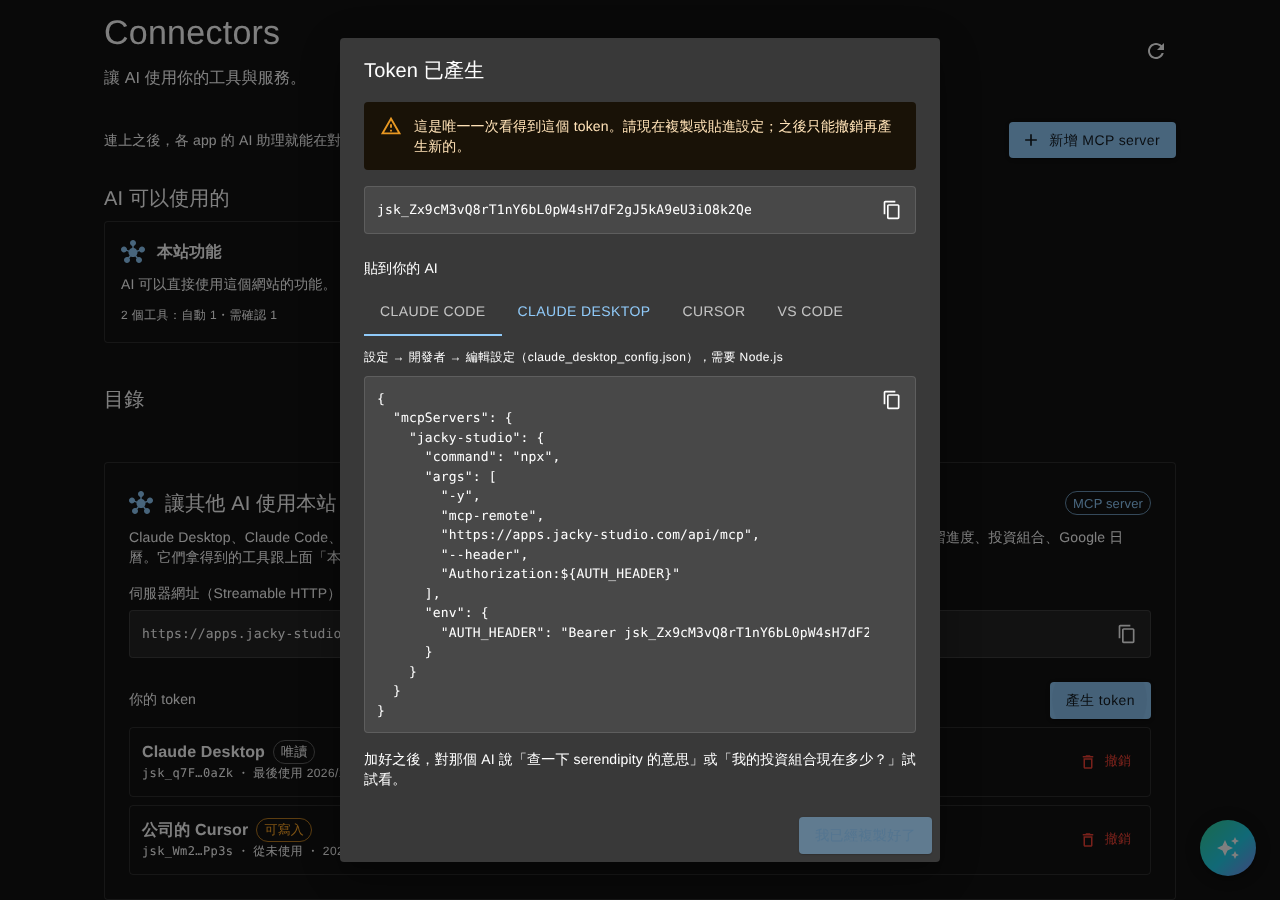
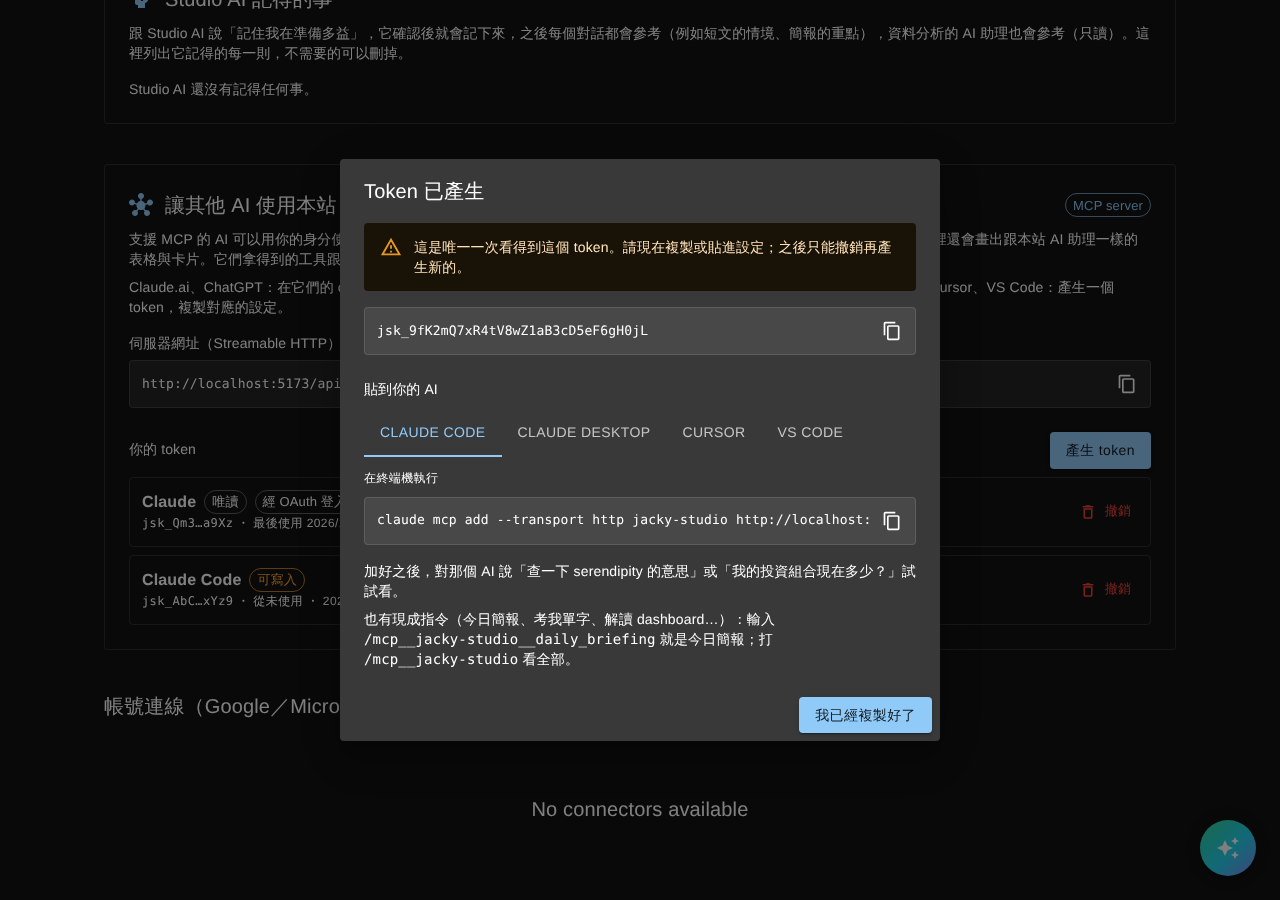
feat(connectors): 產生 token 的對話框寫出各 AI 怎麼叫出本站的現成指令；文件與截圖（D-110）
Claude Code 的 /mcp__jacky-studio__daily_briefing、VS Code 的 /mcp.jacky-studio.daily_briefing、Claude Desktop 的「＋」選單；
BRIEFING_PROMPT 由測試對齊 StudioSitePrompts.cs。design/03 §9.3、CONTRIBUTING、兩份 CLAUDE.md、SHOWCASE。

Claude-Session: https://claude.ai/code/session_01AQNm4hfx32a2siK9tmo2e1

diff --git a/jackyaiapp.client/src/Connectors/SiteMcpSection/clientConfigs.ts b/jackyaiapp.client/src/Connectors/SiteMcpSection/clientConfigs.ts
@@ -4,12 +4,23 @@ export const siteMcpUrl = (origin: string) => `${origin.replace(/\/+$/, '')}/api
 /** The name the other AI lists the server under. */
 export const SERVER_KEY = 'jacky-studio';
 
+/**
+ * The morning briefing among the server's ready-made requests (MCP prompts: the server's `SitePrompt`s,
+ * `StudioSitePrompts.DailyBriefing`; its test holds the two together), the one the dialog names.
+ */
+export const BRIEFING_PROMPT = 'daily_briefing';
+
 export interface ClientConfig {
   key: 'claudeCode' | 'claudeDesktop' | 'cursor' | 'vscode';
   label: string;
   /** Where it goes, in words. */
   where: string;
   text: string;
+  /**
+   * Where that AI shows the site's ready-made requests (MCP prompts), in words, naming the briefing.
+   * None for a client whose way to them we do not know.
+   */
+  prompts?: string;
 }
 
 const json = (value: unknown) => JSON.stringify(value, null, 2);
@@ -28,6 +39,7 @@ export function clientConfigs(serverUrl: string, token: string): ClientConfig[] 
       label: 'Claude Code',
       where: '在終端機執行',
       text: `claude mcp add --transport http ${SERVER_KEY} ${serverUrl} --header "Authorization: ${authorization}"`,
+      prompts: `輸入 /mcp__${SERVER_KEY}__${BRIEFING_PROMPT} 就是今日簡報；打 /mcp__${SERVER_KEY} 看全部`,
     },
     {
       key: 'claudeDesktop',
@@ -42,6 +54,7 @@ export function clientConfigs(serverUrl: string, token: string): ClientConfig[] 
           },
         },
       }),
+      prompts: `輸入框的「＋」→ ${SERVER_KEY}，選「今日簡報」或其他現成指令`,
     },
     {
       key: 'cursor',
@@ -60,6 +73,7 @@ export function clientConfigs(serverUrl: string, token: string): ClientConfig[] 
           [SERVER_KEY]: { type: 'http', url: serverUrl, headers: { Authorization: authorization } },
         },
       }),
+      prompts: `在 Copilot Chat 輸入 /mcp.${SERVER_KEY}.${BRIEFING_PROMPT} 就是今日簡報`,
     },
   ];
 }

diff --git a/jackyaiapp.client/src/Connectors/SiteMcpSection/CreateTokenDialog.tsx b/jackyaiapp.client/src/Connectors/SiteMcpSection/CreateTokenDialog.tsx
@@ -98,6 +98,31 @@ export default function CreateTokenDialog({ open, serverUrl, onClose }: CreateTo
           <Typography variant="body2" color="text.secondary" sx={{ mt: 2 }}>
             加好之後，對那個 AI 說「查一下 serendipity 的意思」或「我的投資組合現在多少？」試試看。
           </Typography>
+          {config.prompts && (
+            <Typography variant="body2" color="text.secondary" sx={{ mt: 1 }}>
+              也有現成指令（今日簡報、考我單字、解讀 dashboard…）：
+              {config.prompts.split(/(\/mcp\S+)/).map((part, i) =>
+                i % 2 === 1 ? (
+                  <Box
+                    key={i}
+                    component="code"
+                    sx={{
+                      fontFamily: 'monospace',
+                      color: 'text.primary',
+                      // One line where it fits; a phone breaks it anywhere rather than overflow.
+                      whiteSpace: { sm: 'nowrap' },
+                      overflowWrap: 'anywhere',
+                    }}
+                  >
+                    {part}
+                  </Box>
+                ) : (
+                  part
+                ),
+              )}
+              。
+            </Typography>
+          )}
         </DialogContent>
       ) : (
         <DialogContent>

diff --git a/jackyaiapp.client/src/Connectors/SiteMcpSection/clientConfigs.test.ts b/jackyaiapp.client/src/Connectors/SiteMcpSection/clientConfigs.test.ts
@@ -1,6 +1,8 @@
 import { describe, expect, it } from 'vitest';
 
-import { clientConfigs, siteMcpUrl } from './clientConfigs';
+import studioPromptsCs from '../../../../JackyAIApp.Server/Services/Assistant/Studio/StudioSitePrompts.cs?raw';
+
+import { BRIEFING_PROMPT, clientConfigs, siteMcpUrl } from './clientConfigs';
 
 const url = 'https://apps.jacky-studio.com/api/mcp';
 const token = 'jsk_abc';
@@ -44,5 +46,20 @@ describe('clientConfigs', () => {
         'jacky-studio': { type: 'http', url, headers: { Authorization: 'Bearer jsk_abc' } },
       },
     });
+  });
+});
+
+describe('the ready-made requests (MCP prompts)', () => {
+  const byKey = Object.fromEntries(clientConfigs(url, token).map((c) => [c.key, c]));
+
+  it('names the server’s own briefing prompt', () => {
+    expect(studioPromptsCs).toContain(`"${BRIEFING_PROMPT}"`);
+  });
+
+  it('says each client’s way to them, in its own command shape', () => {
+    expect(byKey.claudeCode.prompts).toContain('/mcp__jacky-studio__daily_briefing');
+    expect(byKey.vscode.prompts).toContain('/mcp.jacky-studio.daily_briefing');
+    expect(byKey.claudeDesktop.prompts).toContain('jacky-studio');
+    expect(byKey.cursor.prompts).toBeUndefined();
   });
 });

diff --git a/docs/ai-native/SHOWCASE.md b/docs/ai-native/SHOWCASE.md
@@ -31,6 +31,7 @@
 | 每個工具「自動／需確認／停用」；確認卡可勾「以後直接執行」；讀過外部資料（含行事曆邀請）後的寫入一律先問；工具說明被改了就改回需確認 | `ToolPermissions`、taint（D-031、`OutsideText`）、工具結果包成不可信資料、`CachedTools.Changed`（rug pull） | prompt injection 與 tool poisoning 防護 |
 | **網站本身就是 MCP server**：在 /connectors 產生 token，一鍵複製 Claude Code／Claude Desktop／Cursor／VS Code 的設定，別家的 AI 就能查字典、看你的學習進度與投資組合 | `POST /api/mcp`（Streamable HTTP、JSON 回應、無 session）、只存雜湊的 PAT、預設唯讀、跟 /connectors 的權限連動；**Claude.ai／ChatGPT 只要貼網址**：本站同時是 OAuth 授權伺服器（PRM、AS metadata、DCR、PKCE、同意頁） | MCP 是雙向的：網站不只是 MCP client，也是 MCP server |
 | **在 Claude.ai／ChatGPT 裡也看得到本站的卡片**：問「我的投資組合」，回答下方直接出現本站的持倉表格（深淺色跟著 host） | MCP Apps（`ui://` 資源、`structuredContent`、postMessage 的 `ui/initialize`／`tool-result`／`size-changed`），一個內嵌的 HTML 畫所有卡片 | MCP Apps（2026 的 generative UI 標準）：工具不只回文字，也回 UI |
+| **別家 AI 裡的斜線指令**：Claude Code 打 `/mcp__jacky-studio__daily_briefing` 就是今日簡報；還有「考我單字」（一次一題）、「解讀 dashboard」、「投資組合健檢」等 6 個現成指令（VS Code、Claude Desktop 的選單也有） | MCP prompts（`prompts/list`／`prompts/get`）：每個 `SitePrompt` 宣告在它用到的工具旁邊，token 用不到的工具就不列出它；參數整理成一行、最多 100 字 | MCP 的三種能力（tools、resources、prompts）本站對外全部提供 |
 | /finance 的 Stock Intelligence：**行為不變**，工具 chip 與進度改用中文（「個股歷史股價」「技術指標」），回答下方有「接著問」 | 同一套共用 chat（`FinanceChatRequestTests` 逐欄位鎖住請求）；中文名稱是前端的對照表（`FINANCE_TOOL_LABELS`） | — |
 
 ## Demo 腳本（約 10 分鐘）
@@ -97,7 +98,7 @@
    ![Connectors：目錄裡的 Notion、Linear 一鍵授權](screenshots/connectors-oauth-desktop.png)
    ![自己的 MCP server：偵測到 OAuth](screenshots/add-mcp-oauth-desktop.png)
 7. **安全（1 分鐘）**：在 connector 詳情把某個工具設成「停用」→ AI 說它沒有這個能力；「需確認」的工具一律出確認卡；按「停止」整輪什麼都不執行。
-8. **反過來：網站本身就是 MCP server（1 分鐘）**：/connectors 往下捲到「讓其他 AI 使用本站」→「產生 token」（名稱 Claude Code、唯讀）→ 複製「Claude Code」那一行指令貼到終端機 → 在 Claude Code 問「用 jacky-studio 查一下 serendipity，再看我今天要複習幾個字」→ 它呼叫本站的 `look_up_word`、`learning_progress`。回到 /connectors 看到 token「最後使用」更新；按「撤銷」後 Claude Code 立刻連不上。
+8. **反過來：網站本身就是 MCP server（1 分鐘）**：/connectors 往下捲到「讓其他 AI 使用本站」→「產生 token」（名稱 Claude Code、唯讀）→ 複製「Claude Code」那一行指令貼到終端機 → 在 Claude Code 問「用 jacky-studio 查一下 serendipity，再看我今天要複習幾個字」→ 它呼叫本站的 `look_up_word`、`learning_progress`。再打 `/mcp__jacky-studio__daily_briefing`（產生 token 的對話框會寫出這行）→ Claude Code 一次呼叫行程、學習進度、投資組合三個工具，整理成三段簡報；`/mcp__jacky-studio__quiz_me` 則一次問一題。回到 /connectors 看到 token「最後使用」更新；按「撤銷」後 Claude Code 立刻連不上。
    **或在 Claude.ai**：設定 → Connectors → 新增自訂 connector，只貼 `https://apps.jacky-studio.com/api/mcp` → 跳到本站的同意頁「Claude 想用你的身分使用 Jacky Studio 的工具，完成後會回到 claude.ai」→ 允許 → 回到 Claude.ai，工具出現。
    接著在 Claude.ai 問「我的投資組合現在怎麼樣？」→ 回答下方出現 **Jacky Studio 的持倉表格卡片**（MCP App），問「serendipity 是什麼」→ 單字卡，按「看完整解釋」開到本站字典頁；token 允許寫入時卡片上還有「加入單字庫」，在 Claude 裡按一下就加進本站的單字庫（MCP App 經 host 呼叫 `tools/call`）。
    ![其他 AI 的 OAuth 同意頁](screenshots/site-mcp-oauth-consent-desktop.png)

diff --git a/docs/ai-native/DECISIONS.md b/docs/ai-native/DECISIONS.md
@@ -111,3 +111,4 @@
 - **D-107（2026-10-26 00:10）有確認卡在等時，分頁標題前面加「（等你確認）」**：agent 做多步的事時，使用者常切去別的分頁；確認卡只等 3 分鐘（D-106），分頁標題是不用權限就能讓人看到的地方（不用 Notification API：要權限提示，一次 demo 不值得）。`useWaitingTitle`：等待時加標記，結束只拿掉標記（期間標題被改過也保留）；Studio 的抽屜在 /finance、/data-analysis 上仍掛著，兩個對話同時等時用模組層級的計數，最後一個結束才拿掉。App 目前沒有任何地方設定 `document.title`，不會互相覆蓋。
 - **D-108（2026-10-26 00:15）時間到的確認卡寫「沒有在時限內回覆」，不寫「已拒絕」**：伺服器時間到把每一項當作拒絕送回（`approval_resolved` 全部 false），卡片原本照樣寫「已拒絕」——使用者沒按過拒絕，紀錄卻說他拒絕了。`resolveApproval`：卡片還在 `pending`（使用者沒送出）就收到全部否決，就是時間到（`expired`），每一項寫「沒有在時限內回覆，沒有執行」。使用者自己送出的（`sending`）或有任何一項允許的，照舊。（審查後改成「全部否決，而且不是使用者自己送出全部拒絕」，見 D-109。）
 - **D-109（2026-10-26 00:20）本輪審查（subagent，唯讀）**：無高風險。已修：(1) 中：使用者在時限前一刻按下、伺服器的時間到先贏時，`approval_resolved` 關掉卡片後，被拒的 POST 又把卡片改回 `failed`（按鈕復活、分頁標記與離開提示留著）——`decide` 失敗時只改還在 `sending` 的卡片，回答正常結束（`onComplete`）也跟停止、錯誤一樣把沒答的卡片關掉；(2) 中：送出允許後輸給時間到、或送出失敗後時間到，原本寫「已拒絕」——`expired` 改成「全部否決，而且不是使用者自己送出全部拒絕」；(3) 低：倒數從收到問題起算會比伺服器晚——扣 5 秒（`APPROVAL_TIME_MARGIN_MS`），註解改正；(4) 低：`App.tsx` 用 react-helmet-async 每頁設標題，Studio 抽屜跨頁時標記被蓋掉——等待時用 `MutationObserver` 看 `<head>`，新標題也加上標記；(5) 低（既有）：一輪結束時還開著的卡片原本寫「已拒絕」，改成「沒有執行」。時間到之後按鈕不停用（扣了 5 秒，按下去多半還來得及）。
+- **D-110（2026-10-26 02:00）本站 MCP server 提供 prompts（現成指令）**：NEXT 的選做只剩小細節；評估後挑 MCP 的第三種能力——本站對外已有 tools 與 resources（MCP App），少了 prompts。Claude Code 把 prompt 顯示成斜線指令，所以「在 Claude Code 打 `/mcp__jacky-studio__daily_briefing` 就是今日簡報」是一個一眼看懂、能 demo 的點，而且只動後端一個 switch 加宣告。做法：`SitePrompt`（Connectors 模組的型別）由各模組宣告在工具旁邊（今日簡報在 Studio，工具名稱用字串，因為 Assistant 不能引用 English／Portfolio，測試確認名稱存在）；token 用不到 prompt 列出的全部工具就不列出、`prompts/get` 當作不存在；參數只讀宣告過的、字串、整理成一行、最多 100 字——參數是使用者自己在 client 打的，視為他的要求，不包成不可信資料。不收費（同 `tools/call`）。`quiz_me` 要求一次一題、等回答再公布，因為別家 client 畫不出 quiz 卡片。/connectors 的產生 token 對話框寫出各 client 怎麼叫出（Claude Code、VS Code、Claude Desktop；Cursor 不確定，不寫）。不做 `completion/complete`（參數自動完成）：要讀使用者的 dashboard 名稱，多一條資料外流的路，demo 價值低。

diff --git a/docs/ai-native/design/03-connector-architecture.md b/docs/ai-native/design/03-connector-architecture.md
@@ -233,3 +233,21 @@ MCP Apps 擴充（`io.modelcontextprotocol/ui`）讓支援的 client（Claude、
 - **資料**：`tools/call` 成功且工具有卡片時，結果多一個 `structuredContent: { card }`——table 原樣，link 的 `href` 補成完整網址（本站路徑 → issuer + 路徑；只收 https）；其他 kind、不能跟的連結、超過 200k 字元則不放。文字（`content`）照舊，連結卡另外在文字後附「標題：完整網址」，讓不畫 app 的 client 也能給使用者連結。
 - **按鈕（第 10 輪，D-059）**：工具實作 `IOffersAppActions` 就能在卡片上放「下一步」（查字典 → 加入單字庫），`structuredContent.actions: [{ tool, label, arguments }]`，只放這個 token 能呼叫的；App 按下時送 `tools/call` 給 host，host 轉給本站。使用者按下就是確認。
 - **測試**：`SiteMcpServerTests` 的 MCP Apps 區塊（宣告、資源、structuredContent、HTML 不含 innerHTML 與外部載入）；畫面用 playwright 自己扮 host（`ui/initialize` → `tool-result` → `size-changed`）截圖（`screenshots/mcp-app-card-*.png`），含 `<img onerror>` 當資料時只顯示成文字。
+
+### 9.3 現成指令：MCP prompts（第 24 輪，D-110）
+
+工具讓別家的模型「能做」，prompts 讓使用者「一鍵叫它做」：MCP 的 `prompts/list`、`prompts/get`，Claude Code 顯示成斜線指令（`/mcp__jacky-studio__daily_briefing`）、VS Code 是 `/mcp.jacky-studio.daily_briefing`、Claude Desktop 在輸入框的「＋」選單。內容就是本站自己最會的組合，用 Studio AI 的說法寫給只有工具的 client：
+
+| prompt | 參數 | 用到的工具 | 模組 |
+|---|---|---|---|
+| `daily_briefing` 今日簡報 | — | `google_calendar_events`、`learning_progress`、`portfolio_summary` | Assistant（`StudioSitePrompts`） |
+| `explain_word` 解釋單字 | `word`（必填） | `look_up_word` | English（`EnglishSitePrompts`） |
+| `quiz_me` 考我單字 | `count` | `review_quiz`（一次問一題，等回答再公布） | English |
+| `write_with_my_words` 用我的單字寫短文 | `topic` | `saved_words` | English |
+| `portfolio_checkup` 投資組合健檢 | — | `portfolio_summary`（不給買賣建議） | Portfolio（`PortfolioSitePrompts`） |
+| `read_my_dashboard` 解讀 dashboard | `dashboard`（必填） | `read_dashboard` | DataAnalysis（`DataAnalysisSitePrompts`） |
+
+- **宣告方式跟工具一樣**：`SitePrompt`（`Services/Connectors/SitePrompts.cs`）是 `public static readonly`，放在用到的工具旁邊，所屬類別的 `All` 列出、在該模組的註冊裡 `services.AddSingleton(prompt)`。`SitePromptDefinitionsTests` 檢查名稱（slash command 可用的 key）、標題長度、文字裡點名的工具都是本站工具且有 `jacky-studio`、每個參數都進到文字。
+- **只提供用得到的**：一個 prompt 列出的工具全部都提供給這個 token（讀取一律、寫入要允許寫入的 token、使用者在 /connectors 停用的不算）才會出現在 `prompts/list`；`prompts/get` 拿不到的 prompt 跟不存在一樣（-32602）。
+- **參數**：只讀 prompt 宣告的參數，必須是字串；整理成一行（控制字元、換行變空白）、去頭尾空白、最多 100 字（不切開 surrogate pair）；必填的空了是 -32602。參數是使用者在自己的 client 打的，就是他的要求，所以不另外標成不可信；整理成一行是為了不讓它看起來像 prompt 本身的段落。
+- **不收費**：跟 `tools/call` 一樣，AI 的工作是對方 client 的模型做的。

diff --git a/JackyAIApp.Server/CLAUDE.md b/JackyAIApp.Server/CLAUDE.md
@@ -407,6 +407,14 @@ code; comments do not count). A new `Services.Something` namespace is in no modu
   host's `ui/open-link`), every tool names it in `_meta.ui`, and a result with a table or link card carries it as
   `structuredContent.card` (a link's address made whole). Being sessionless, the server cannot tell whether the client
   said it draws apps, so it always offers it; others ignore it. A link card's address also follows the text in full
+- The server also offers ready-made requests, MCP prompts (`prompts/list`, `prompts/get`; design/03 §9.3, D-110): Claude Code
+  shows each as a slash command (`/mcp__jacky-studio__daily_briefing`). A prompt is a `SitePrompt` (`Services/Connectors/SitePrompts.cs`):
+  a `public static readonly` field next to the tools it asks for (the morning briefing in `Services/Assistant/Studio/StudioSitePrompts`, English's
+  `explain_word`/`quiz_me`/`write_with_my_words`, Portfolio's `portfolio_checkup`, Data Analysis's `read_my_dashboard`), listed in its class's `All`
+  and registered with `services.AddSingleton(prompt)` in its module's registration; `SitePromptDefinitionsTests` holds each to the same
+  shape (a key a client can use, its tools site tools named in its text, every argument in it). It is offered only when the token is offered
+  every tool it names, and one not offered is an unknown prompt (-32602). Only its own arguments are read, as strings, each put on one line,
+  trimmed and cut to 100 characters (`SitePrompts.Clean`); a required one left empty is -32602. No usage charge, as for a call
 - A card can carry buttons there (`structuredContent.actions`: `{ tool, label, arguments }`): a site tool that is
   `IOffersAppActions` names the next step (the dictionary's lookup: add the word to the repository), and the server keeps
   only those whose tool the token may call (`SiteMcpApp.AddActions`). Pressing one sends `tools/call` from the app through

diff --git a/docs/ai-native/CONTRIBUTING-CONNECTORS.md b/docs/ai-native/CONTRIBUTING-CONNECTORS.md
@@ -102,3 +102,17 @@ services.AddSingleton(new SiteToolSet("功能名稱", [MyTool.Definition]));   /
 
 寫好的 `ISiteTool` 不只 Studio AI 用得到：本站對外的 MCP server（`POST /api/mcp`，design/03 §9）會把它提供給使用者接上的 Claude Desktop、Cursor 等。讀取型工具一律提供；`ToolEffect.Write` 只給允許寫入的 token；`Destructive` 永遠不提供。所以 **`Effect` 要老實標**，說明（`Description`）也要寫得讓別家的模型看得懂。不需要另外註冊。
 
+想讓使用者在 Claude Code 打一個斜線指令就叫你的工具做一件完整的事，再加一個 **現成指令（MCP prompt）**，放在工具旁邊（design/03 §9.3，範例 `Services/Dictionary/Assistant/EnglishSitePrompts.cs`）：
+
+```csharp
+public static readonly SitePrompt ExplainWord = new(
+    "explain_word", "解釋單字", "從 Jacky Studio 的字典查一個英文單字，用中文解釋並附例句。",
+    [LookUpWordTool.Name],                                        // 這些工具都提供給 token 時才出現
+    [new SitePromptArgument("word", "要查的英文單字", Required: true)],
+    args => $"用 jacky-studio 的 {LookUpWordTool.Name} 查「{args["word"]}」，……");
+public static IReadOnlyList<SitePrompt> All { get; } = [ExplainWord];
+// 模組的註冊：foreach (var prompt in EnglishSitePrompts.All) services.AddSingleton(prompt);
+```
+
+`SitePromptDefinitionsTests` 會自動檢查它（名稱、工具存在、參數進到文字），不用另外寫測試。
+

diff --git a/jackyaiapp.client/CLAUDE.md b/jackyaiapp.client/CLAUDE.md
@@ -154,7 +154,9 @@ sent or stored, so a reopened conversation shows a plain message. A site tool's 
   (`canAlwaysAllow`) and no 全部允許 on the card (D-101).
   Below that, `SiteMcpSection` lets other AIs use the site: the site's MCP address, the reader's tokens (revoked after a
   second click) and `CreateTokenDialog`, which shows a new token once, with the settings for Claude Code, Claude
-  Desktop, Cursor and VS Code filled in (`clientConfigs`); what a token's row says is `tokenView`
+  Desktop, Cursor and VS Code filled in (`clientConfigs`), and for a client whose way to them is known, where it shows the server's
+  ready-made requests (MCP prompts: `ClientConfig.prompts`, naming `BRIEFING_PROMPT`, which its test holds to the server's
+  `StudioSitePrompts.cs`); what a token's row says is `tokenView`
 - `/oauth/authorize` (`OAuthConsent`) is where another AI's OAuth sign-in to the site's MCP server asks the reader:
   who asks, where they go back to, whether writes are allowed. Not under `RequireAuth`, which would drop the query: a
   signed-out visitor signs in from the page and comes back with the whole request (`authorizeRequestOf` keeps only
